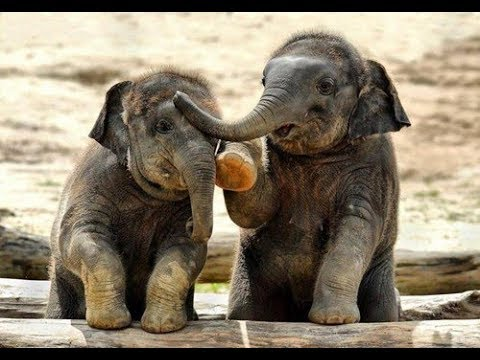
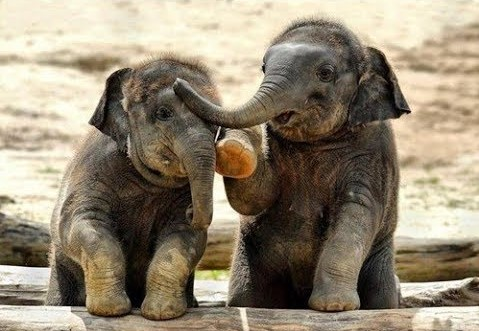
donate page mobile
added image and finished donations mobile layout

diff --git a/final/donate.css b/final/donate.css
@@ -1,45 +1,75 @@
-/* :root {
-  --lightgreen: rgba(102, 119, 34, 0.39);
-  --uglygreen:rgb(117, 109, 72);
-  --headercolor:#444130;  
-  --main-padding: 15px;  
-} */
 
 
-.donations-text h2{
-  font-family: 'Playfair Display';
-  color: #444130; 
+
+
+.donate-hr{
+  margin-top: 30px;
   padding-top: 0px;
-  margin-bottom:0px;
+  margin-bottom: 15px;
+  width: 60%;
+  border-top: 2px solid var(--lightgreen);
+}
+
+/* ----------------------------- */
+
+.donate-container{
+    background-color: var(--lightgreen);
+    margin-top: 45px;
+    margin-bottom: 50px;
+    padding-top: 15px;
+    padding-bottom: 15px;
 }
 
 
-.donations-image img {
-  width:100%;
-    height: 100%;
-  object-fit: cover;
-    background: rgba(102, 119, 34, 0.39);
+.donate-container h3{
+      font-size: 1.4em;
+    font-family: "Raleway";
+    color: var(--uglygreen);
+    text-transform: uppercase;
+}
+
+.donations-p1{
+  margin-left: 30px;
+  margin-right: 30px;
+}
+
+.donations-p2{
+  margin-left: 15px;
+  margin-right: 15px;
+}
+
+/* ----------------------------- */
+
+
+
+.donations-image img{
+  
+
+    width: 14rem;
+    height: 14rem;
+    object-fit:cover;
+    padding: 0;
+    background: rgba(102, 119, 34, 0.39);;
     border-radius: 50%;
-
-
- 
+    margin-top: 35px;
 }
+
 
 .donations-image-g img{
-     object-position: 1%;
+  object-position: 1%;
 }
 
 .donations-text p{
   margin-top:8px;
 }
 .donations-text-g p{
-     padding-left: 60px;
-    padding-right: 60px;
+  padding-left: 60px;
+  padding-right: 60px;
 }
 
 .donations-text-c p{
-     padding-left: 50px;
-    padding-right: 50px;
+  padding-left: 50px;
+  padding-right: 50px;
 }
 .donations-text-r p{
  padding-left: 0px;
@@ -47,6 +77,12 @@
 
 }
 
+.donations-text h2{
+  font-family: 'Playfair Display';
+  color: var(--headercolor);
+  padding-top: 0px;
+  margin-bottom:0px;
+}
 
 .donations-box{
   display:flex;
@@ -59,17 +95,9 @@
 
 
 
-.donations-image img{
-  
 
-    width: 14rem;
-    height: 14rem;
-    padding: 0;
-    background: rgba(102, 119, 34, 0.39);;
-    border-radius: 50%;
-    margin-top: 60px;
-}
 
+/* ----------------------------- */
 /* FORM!!!!!!!!!!!!! */
 
 
@@ -168,7 +196,7 @@ input, select {
 
 input[type=submit] {
   width: 100%;
-  background-color: var(--lightgreen);
+  background-color: var(--darkgreen);
   color: white;
   padding: 14px 20px;
   margin: 8px 0;
@@ -188,14 +216,14 @@ input[type=submit] {
 
 
 input[type=submit]:hover {
-  background-color: var(--darkgreen);
+  background-color: var(--lightgreen);
   
 }
 
 
 
 
-/* START TABLET HERE */
+/* START TABLET HERE! START TABLET HERE! */
 @media(min-width: 768px){
   .donations-box{
     justify-content: space-between;

diff --git a/final/donate.html b/final/donate.html
@@ -67,14 +67,30 @@
   <!-- BODY CONTENT STARTS HEREE! -->
   <div id="main">
 
+    <img src="images/elephants2.jpg" alt="Elephants">
+
+    <p class="p-headline">At Endangered Species International your precious donation is working in the most effective
+      way possible on the
+      ground.
+      Neither time nor money is wasted, and you can be proud that your donation is making a difference by saving
+      endangered
+      species.
+    </p>
+
+    <hr class="donate-hr">
 
 
-    <p class="para1">
+
+
+
+
+
+    <!-- <p class="para1">
       More than 31,000 species are threatened with extinction
 
       That is 27% of all assessed species.
 
-    </p>
+    </p> -->
 
 
     <div class="donations-container">
@@ -119,27 +135,22 @@
 
     </div>
 
-
     <div class="donate-container">
 
-      <p>
-        At Endangered Species International your precious donation is working in the most effective way possible on the
-        ground.
-        Neither time nor money is wasted, and you can be proud that your donation is making a difference by saving
-        endangered
-        species and their habitats.
-      </p>
       <h3>98% goes to conservation activities on ground !</h3>
-      <p>We have won a 2018 Top-Rated Award from GreatNonprofits demonstrating in part excellent use of our resources.
+
+      <p class="donations-p1">We have won a 2018 Top-Rated Award from GreatNonprofits demonstrating in part excellent
+        use of our resources.
       </p>
-      <p>
+
+      <p class="donations-p2">
         We have reached the Platinum participation level through the GuideStar Exchange. This is a strong testament to
         our organization’s commitment to transparency and hard work.</P>
 
-
-
-
     </div>
+
+
+
 
     <form>
 
@@ -172,6 +183,12 @@
           <label for="text">Other</label>
        -->
         </section>
+
+
+
+
+
+
       </fieldset>
 
 

diff --git a/final/script.js b/final/script.js
@@ -59,7 +59,7 @@ $(document).ready(function () {
 
 
   $('#toggle1').click(function () {
-    $('.content1').slidetoggle('slow');
+    $('.content1').slideToggle('slow');
 
   });
 

diff --git a/final/main.css b/final/main.css
@@ -21,6 +21,10 @@ body{
 
 }
 
+img{
+  width:100%;
+}
+
 #main{
   text-align: center;
 }
